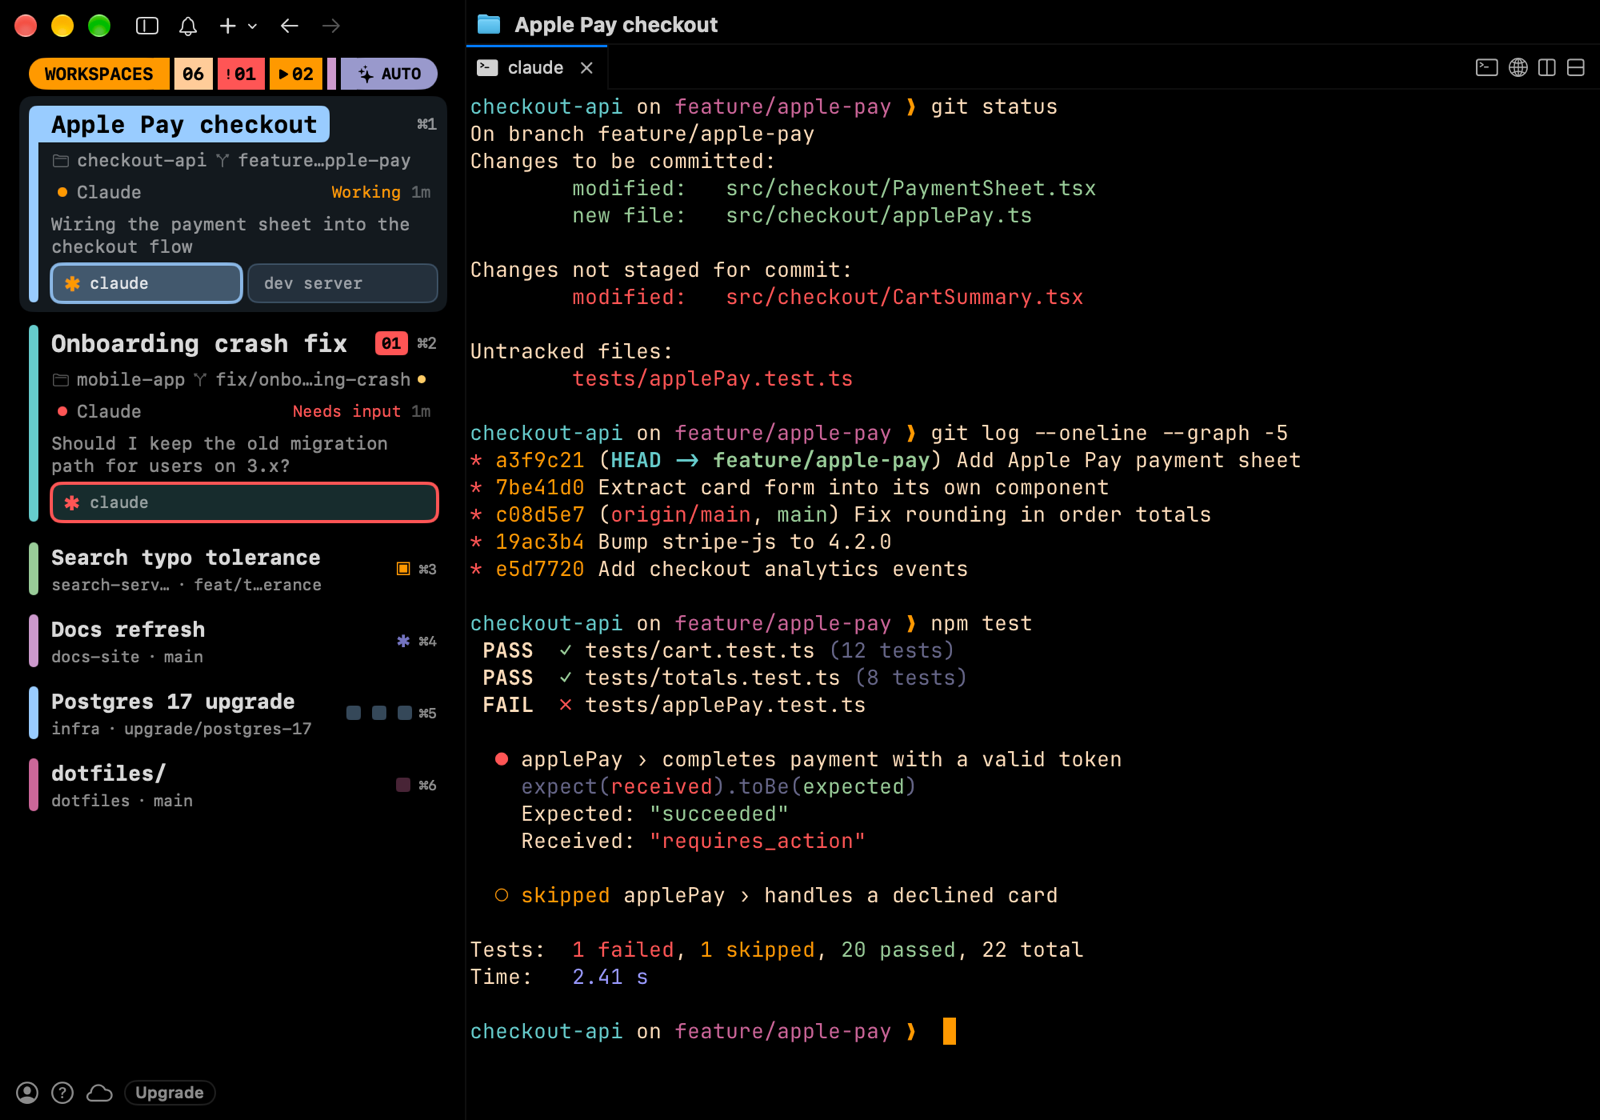
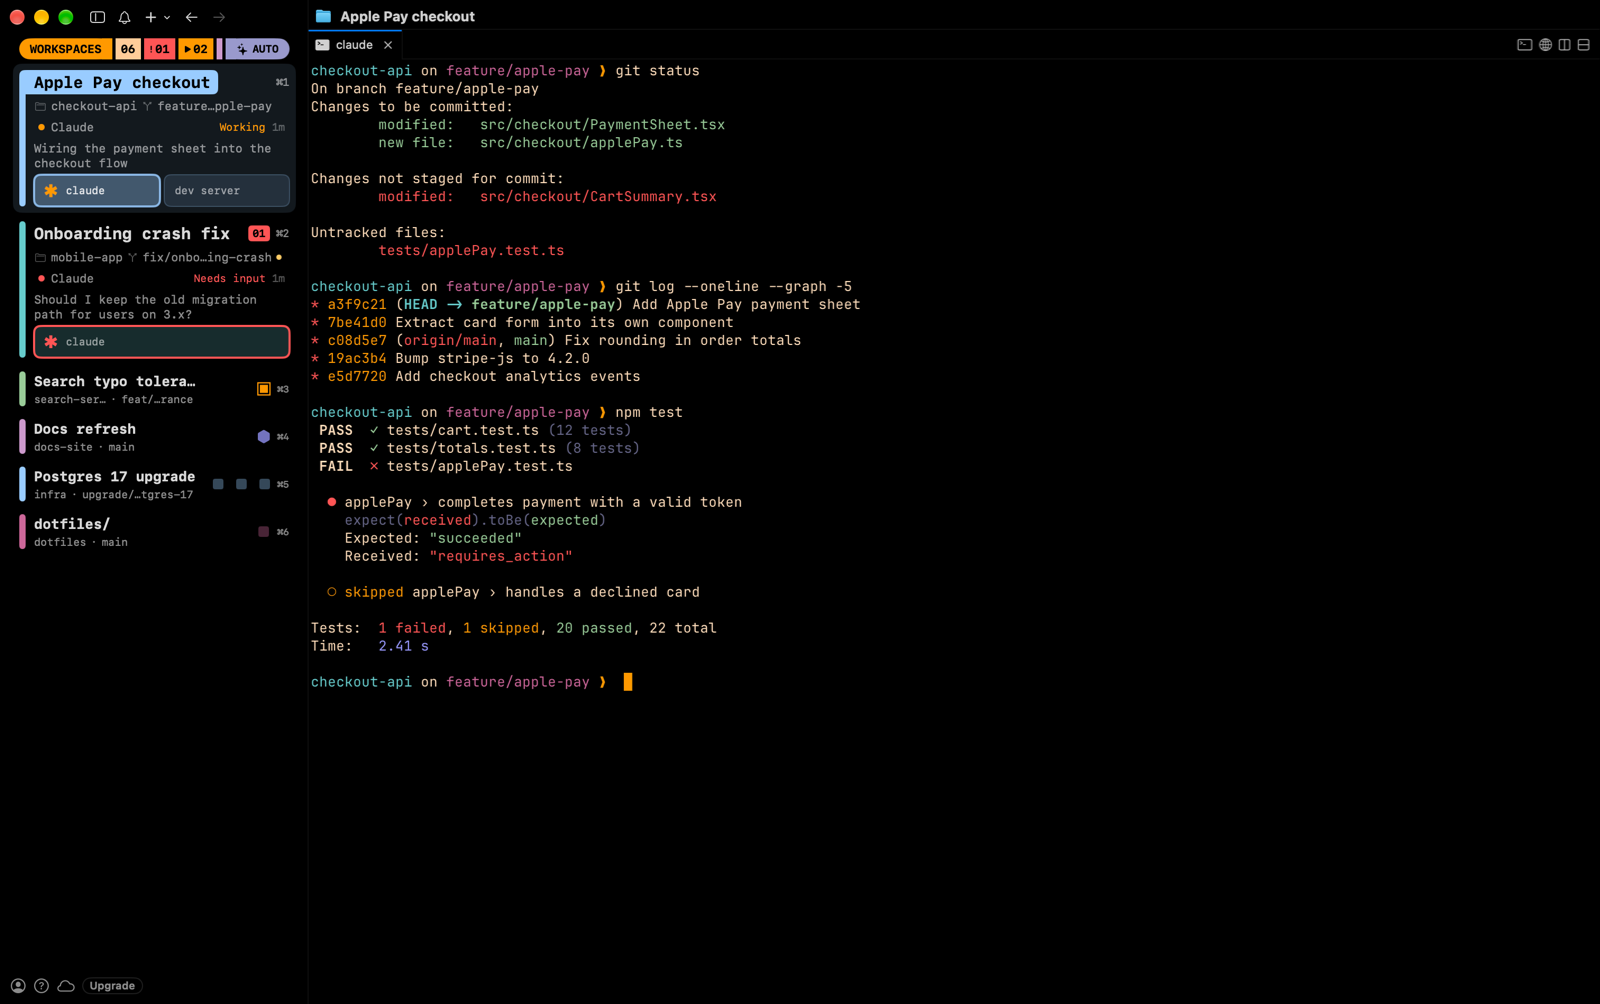
Add a Codex mark, enlarge the marks, and tidy agent titles
Codex reports to cmux through cmux's own codex wrapper, so it needs no
setup; lcars now gives it a hexagon. It is the hexagon.fill SF Symbol
rather than a ⬢ character, which sits off its own centre and wobbled as
it turned. The demo's Docs refresh workspace runs Codex so the README
shows it.

Agent marks are larger so their turning is easy to see: 17pt in 20pt
slots on both full-card tiles and compact rows.

Workspace names and tile labels drop OpenCode's "OC | " prefix and the
braille spinner Codex animates in its title while it works; the turning
mark already says both. The sidebar isn't told which names were typed by
hand, so the prefix goes either way.

diff --git a/lcars.js b/lcars.js
@@ -51,9 +51,26 @@ const STATUS = {
 const AGENTS = {
   claude: { glyph: "✱", step: 60 },
   opencode: { glyph: "▣", step: 90 },
+  // A ⬢ character sits off its own centre and wobbles as it turns, so
+  // Codex's hexagon is the SF Symbol, which turns about its middle. Symbols
+  // draw larger than these characters, hence the smaller size.
+  codex: { symbol: "hexagon.fill", step: 60, scale: 0.65 },
 };
 const OTHER_AGENT = { glyph: "◆", step: 90 };
 const agentMark = (a) => AGENTS[a?.kind] ?? OTHER_AGENT;
+const markSize = (a, size) => Math.round(size * (agentMark(a).scale ?? 1));
+
+// An agent's mark at `size`: its character, or its SF Symbol when it has one.
+// The two share one rotation, applied by the caller.
+function markView(agent, size, color) {
+  const mark = () => (agent() ? agentMark(agent()) : null);
+  return ZStack({}, [
+    Text(() => (mark() && !mark().symbol ? mark().glyph : ""))
+      .font(size).weight("bold").color(color),
+    when(() => mark()?.symbol ?? null, "symbol", (name) =>
+      Image(() => name()).font(() => markSize(agent(), size)).weight("bold").color(color)),
+  ]);
+}
 
 // An idle mark is already periwinkle, so it only needs a little softening to
 // sit back from working and needs-input marks; any lower and it is hard to read.
@@ -278,17 +295,26 @@ function cleanMessage(text) {
   return t.replace(/\s+/g, " ");
 }
 
-// A workspace still named after its path reads as "folder/".
+// Agents decorate their terminal titles: OpenCode prefixes "OC | ", and
+// Codex animates a braille spinner (⠋ ⠙ ⠹ …) in front while it works. The
+// turning mark already says both, so they are left off wherever a title is shown.
+const cleanTitle = (title) => String(title ?? "")
+  .replace(/^[\s\u2800-\u28FF]+/, "")
+  .replace(/^OC\s*\|\s*/, "")
+  .trim();
+
+// A workspace still named after its path reads as "folder/". A workspace
+// cmux names from its terminal title can carry OpenCode's prefix. The sidebar
+// isn't told whether a title was typed by hand, so the prefix goes either way.
 function workspaceTitle(w) {
-  const title = (w?.title ?? "").trim();
+  const title = cleanTitle(w?.title);
   if (!title) return basename(w?.directory) + "/";
   if (title.startsWith("~/") || title.startsWith("/")) return basename(title) + "/";
   return title;
 }
 
 function tabLabel(w, t) {
-  // OpenCode prefixes its titles with "OC | "; the prefix says nothing here.
-  const title = (t?.title ?? "").replace(/^\s*OC\s*\|\s*/, "").trim();
+  const title = cleanTitle(t?.title);
   if (!title) return "terminal";
   if (title.startsWith("~/") || title.startsWith("/")) return basename(title);
   return title;
@@ -357,7 +383,7 @@ function sessionRow(w, s) {
     .onTap(() => focusTerminal(w, s().agent.surfaceId));
 }
 
-// A one-line tile (about 24pt tall) per terminal: the agent's mark in its status colour at the
+// A one-line tile (about 30pt tall) per terminal: the agent's mark in its status colour at the
 // leading edge, the terminal's name, then the unread dot. One line keeps the
 // card short. A tile with no agent gives the mark's slot to the name rather
 // than reserving it: tiles sit side by side, not stacked, so there is nothing
@@ -369,11 +395,9 @@ function tile(w, t) {
   const needsInput = () => agent()?.status === "needs_input";
   return HStack({ spacing: 4 }, [
     // Fixed square, so the label doesn't shift as the mark turns.
-    Text(() => (agent() ? agentMark(agent()).glyph : ""))
-      .font(13).weight("bold")
-      .color(() => (agent() ? statusOf(agent()).color : "clear"))
+    markView(agent, 17, () => (agent() ? statusOf(agent()).color : "clear"))
       .opacity(() => (agent()?.status === "idle" ? IDLE_OPACITY : 1))
-      .frame(() => ({ width: agent() ? 14 : 0, height: 14 }))
+      .frame(() => ({ width: agent() ? 20 : 0, height: 20 }))
       .rotation(spin(agent)),
     Text(() => tabLabel(w(), t()))
       .font(10).monospaced()
@@ -384,7 +408,7 @@ function tile(w, t) {
     // A tile that needs input already has a red border, so no dot there.
     Circle({ size: 6 }).fill(() => (t()?.hasUnread && !needsInput() ? LCARS.red : "clear")),
   ])
-    // Padding sets the height (the 14pt mark slot plus 5 above and below);
+    // Padding sets the height (the 20pt mark slot plus 5 above and below);
     // a frame height here doesn't stretch an HStack.
     .paddingHorizontal(6)
     .paddingVertical(5)
@@ -588,8 +612,8 @@ function closeConfirm(w) {
 // mark in its status colour (a little softer when idle, black on a red square
 // when it needs input); any other terminal is a smaller square in the
 // workspace tint, centred in the slot.
-const SLOT = 14;
-const PLAIN = 9;
+const SLOT = 20;
+const PLAIN = 10;
 const MINI_GAP = 2;
 
 function miniTile(w, t) {
@@ -605,10 +629,8 @@ function miniTile(w, t) {
     RoundedRectangle({ cornerRadius: 2 })
       .fill(() => (agent() ? "clear" : tint(accent(w()), live() ? ALPHA.lit : ALPHA.live)))
       .frame({ width: PLAIN, height: PLAIN }),
-    // 11pt, so the glyph still fits the slot once it has turned.
-    Text(() => (agent() ? agentMark(agent()).glyph : ""))
-      .font(11).weight("bold")
-      .color(() => (needsInput() ? "black" : agent() ? statusOf(agent()).color : "clear"))
+    // Large enough to see turn, small enough to fit the slot once turned.
+    markView(agent, 17, () => (needsInput() ? "black" : agent() ? statusOf(agent()).color : "clear"))
       .opacity(() => (agent()?.status === "idle" ? IDLE_OPACITY : 1))
       .rotation(spin(agent)),
   ])

diff --git a/docs/demo-data.js b/docs/demo-data.js
@@ -42,8 +42,8 @@ function demoWorkspaces() {
     {
       id: "docs", title: "Docs refresh", directory: "~/src/docs-site",
       branch: "main", color: "#CC99CC", unread: 0,
-      tabs: [tab("docs-1", "claude", { focused: true })],
-      agents: [agent("c3", "claude", "Claude", "idle", "docs-1", 300)],
+      tabs: [tab("docs-1", "codex", { focused: true })],
+      agents: [agent("c3", "codex", "Codex", "idle", "docs-1", 300)],
     },
     {
       id: "postgres", title: "Postgres 17 upgrade", directory: "~/src/infra",

diff --git a/README.md b/README.md
@@ -49,9 +49,10 @@ periwinkle and gold are kept for status:
 - **Last agent message**.
 - **Terminal tiles**: one line per terminal with the agent's mark, the
   terminal's name and an unread dot. The shape of the mark says which agent
-  it is: ✱ Claude, ▣ OpenCode, ◆ anything else. Its colour is the status,
-  and it turns while the agent works. OpenCode's "OC | " title prefix is
-  left off the name. A tile that needs input gets a red border instead of the
+  it is: ✱ Claude, ▣ OpenCode, ⬢ Codex, ◆ anything else. Its colour is the
+  status, and it turns while the agent works. OpenCode's "OC | " title
+  prefix and Codex's title spinner are left off tile and workspace names. A
+  tile that needs input gets a red border instead of the
   unread dot, and the focused terminal is highlighted.
 
 Compact rows show the name, then folder and branch below it. The
@@ -98,8 +99,9 @@ The mode resets to Auto when cmux reloads the sidebar.
 
 ## OpenCode (optional)
 
-Claude Code reports its status to cmux out of the box. OpenCode needs cmux's
-plugin first:
+Claude Code reports its status to cmux out of the box, and so does Codex
+through cmux's own `codex` wrapper, with nothing to install. OpenCode needs
+cmux's plugin first:
 
 ```sh
 ./install.sh --opencode
